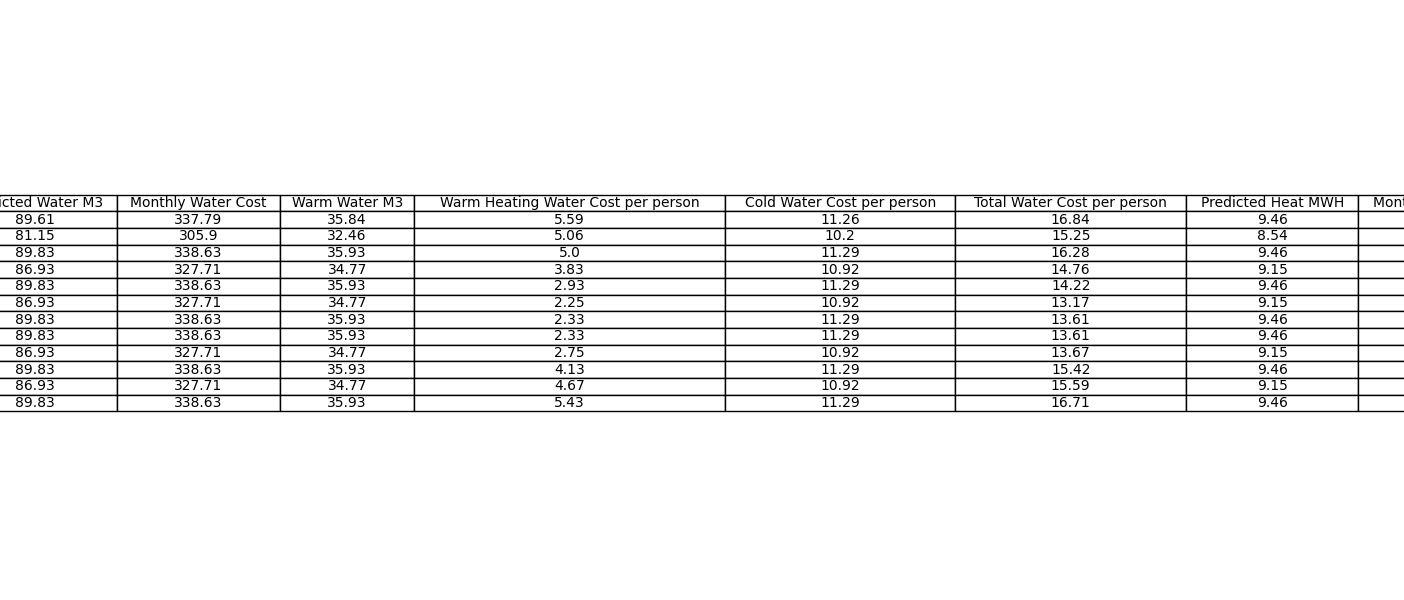
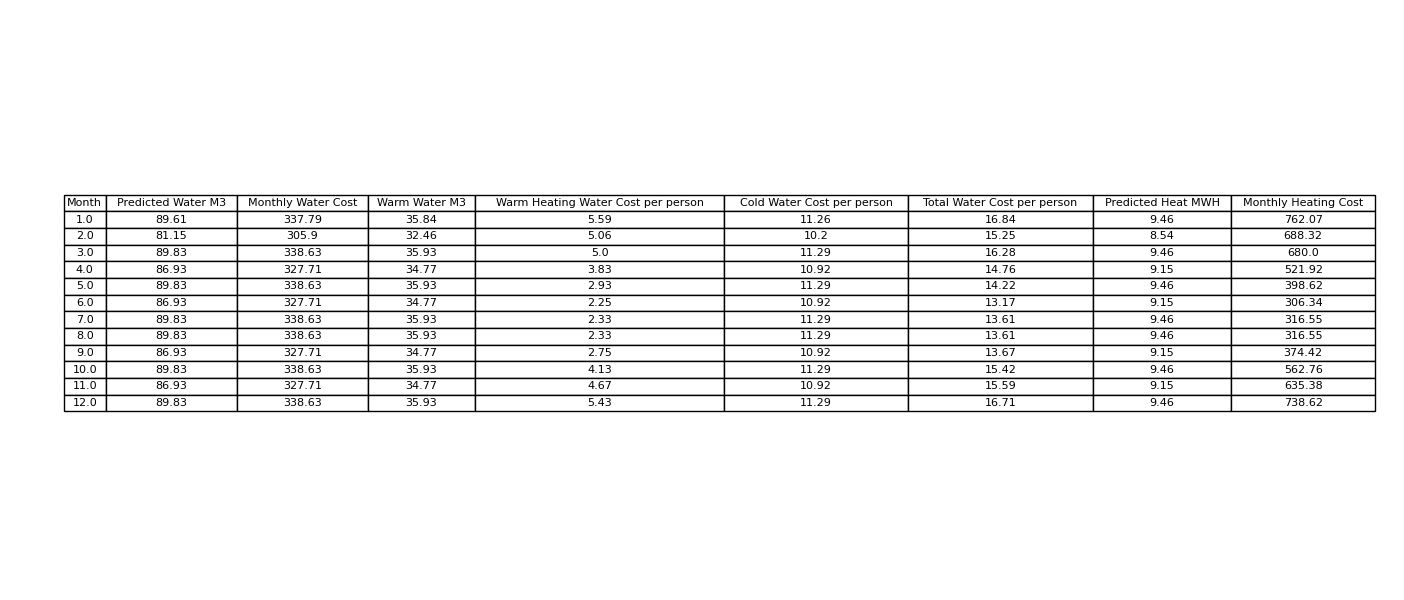
diagram updated

Changed region(s): [[0.0, 0.3, 1.0, 0.69]]

diff --git a/visualize_results.py b/visualize_results.py
@@ -13,7 +13,7 @@ ax.axis('off')
 # Creating the table with white background and black font
 tbl = ax.table(cellText=df.values, colLabels=df.columns, cellLoc = 'center', loc='center', cellColours=[['white']*df.shape[1]]*df.shape[0])
 tbl.auto_set_font_size(False)
-tbl.set_fontsize(10)
+tbl.set_fontsize(8)
 tbl.auto_set_column_width(col=list(range(len(df.columns))))
 
 plt.show()
